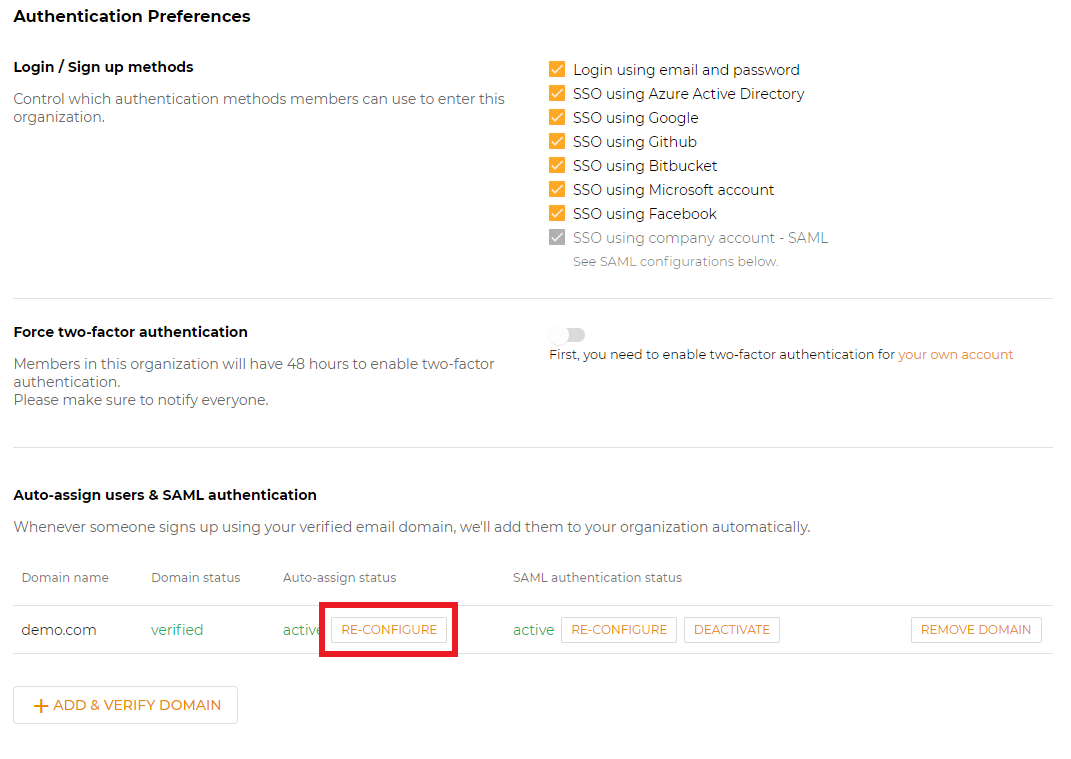
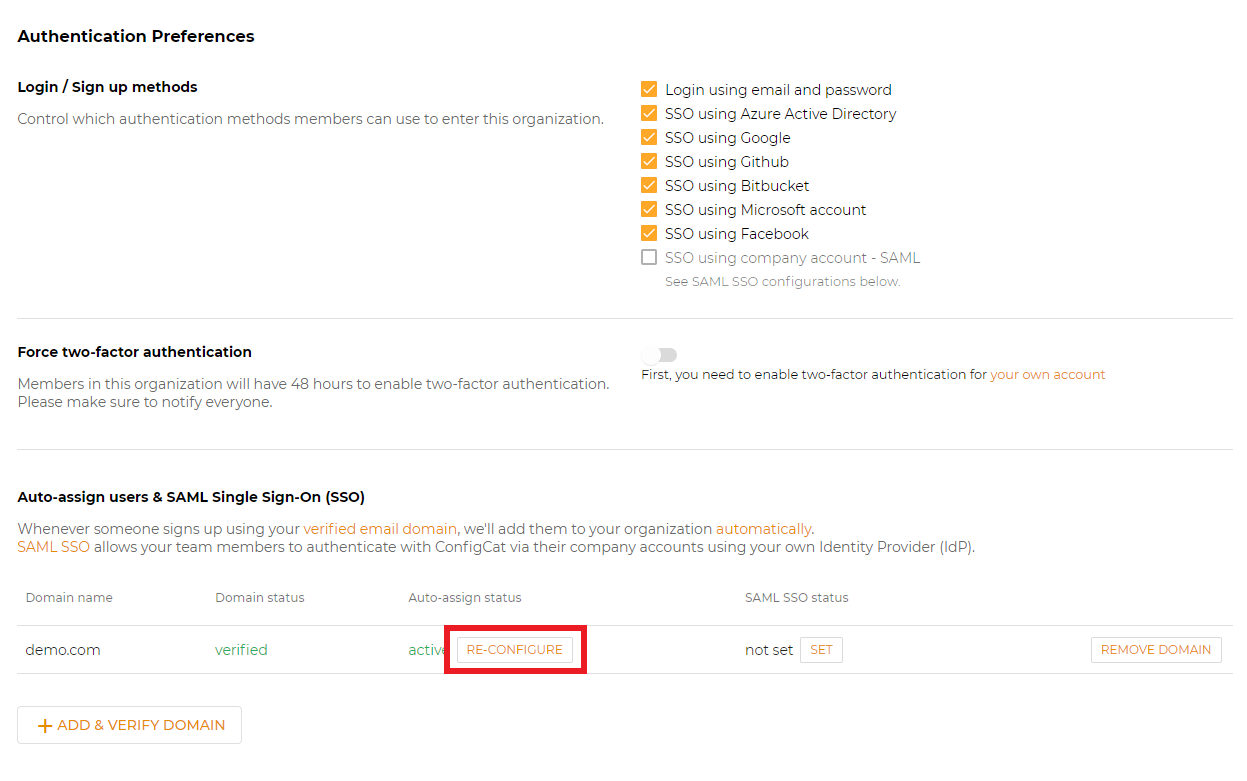
Final touches

diff --git a/website/docs/advanced/team-management/saml/overview.md b/website/docs/advanced/team-management/saml/overview.md
@@ -5,7 +5,7 @@ title: Overview
 
 This section describes how you can enable SAML Single Sign-On (SSO) for your ConfigCat environment.
 
-SAML authentication allows your team members to authenticate with ConfigCat via their company accounts using your own Identity Provider (IdP).
+SAML SSO allows your team members to authenticate with ConfigCat via their company accounts using your own Identity Provider (IdP).
 
 ### Prerequisites
 - [Verified domain](../domain-verification)  
@@ -26,11 +26,13 @@ We tested and validated the following SAML Identity Providers:
 Other Identity Providers might also work with ConfigCat, if they support the SAML 2.0 protocol.
 :::
 
-### SAML Attributes
-- Supported SAML flows:
-    - IdP initiated SSO
-    - SP initiated SSO
 
-- Required NameID format: `http://schemas.xmlsoap.org/ws/2005/05/identity/claims/emailaddress`
-- Supported signature algorithm: `RSA-SHA256`
-#### 
+### Supported SAML flows
+  - IdP initiated SSO
+  - SP initiated SSO
+
+### SAML Requirements
+These are the Identity Provider configuration requirements for ConfigCat:
+
+- **Name ID**: ConfigCat only supports the email address in the `NameID` field.
+- **Signature algorithm**: ConfigCat only supports the `RSA-SHA256` signature algorithm.

diff --git a/website/docs/advanced/team-management/saml/identity-providers/adfs.md b/website/docs/advanced/team-management/saml/identity-providers/adfs.md
@@ -16,7 +16,7 @@ Each SSO Identity Provider requires specific information to configure a SAML int
 
   <img class="saml-tutorial-img" src="/static/assets/saml/dashboard/authentication.png" />
 
-- Select the domain you want to configure with SAML, and click `Set` under the `SAML authentication status`.
+- Select the domain you want to configure with SAML, and click `Set` under the `SAML SSO status`.
 
   <img class="saml-tutorial-img" src="/static/assets/saml/dashboard/domains.png" />
 

diff --git a/website/docs/advanced/team-management/saml/identity-providers/auth0.md b/website/docs/advanced/team-management/saml/identity-providers/auth0.md
@@ -32,7 +32,7 @@ The next step will guide you on how to collect the information required for the 
 
   <img class="saml-tutorial-img" src="/static/assets/saml/dashboard/authentication.png" />
 
-- Select the domain you want to configure with SAML, and click `Set` under the `SAML authentication status`.
+- Select the domain you want to configure with SAML, and click `Set` under the `SAML SSO status`.
 
   <img class="saml-tutorial-img" src="/static/assets/saml/dashboard/domains.png" />
 

diff --git a/website/docs/advanced/team-management/saml/identity-providers/azure-ad.md b/website/docs/advanced/team-management/saml/identity-providers/azure-ad.md
@@ -40,7 +40,7 @@ The next step will guide you on how to collect the information required for Conf
 
   <img class="saml-tutorial-img" src="/static/assets/saml/dashboard/authentication.png" />
 
-- Select the domain you want to configure with SAML, and click `Set` under the `SAML authentication status`.
+- Select the domain you want to configure with SAML, and click `Set` under the `SAML SSO status`.
 
   <img class="saml-tutorial-img" src="/static/assets/saml/dashboard/domains.png" />
 

diff --git a/website/docs/advanced/team-management/saml/identity-providers/google.md b/website/docs/advanced/team-management/saml/identity-providers/google.md
@@ -37,7 +37,7 @@ The next step will guide you on how to configure ConfigCat with appearing inform
 
   <img class="saml-tutorial-img" src="/static/assets/saml/dashboard/authentication.png" />
 
-- Select the domain you want to configure with SAML, and click `Set` under the `SAML authentication status`.
+- Select the domain you want to configure with SAML, and click `Set` under the `SAML SSO status`.
 
   <img class="saml-tutorial-img" src="/static/assets/saml/dashboard/domains.png" />
 

diff --git a/website/docs/advanced/team-management/saml/identity-providers/okta.md b/website/docs/advanced/team-management/saml/identity-providers/okta.md
@@ -36,7 +36,7 @@ The next step will guide you on how to collect the information required for the 
 
   <img class="saml-tutorial-img" src="/static/assets/saml/dashboard/authentication.png" />
 
-- Select the domain you want to configure with SAML, and click `Set` under the `SAML authentication status`.
+- Select the domain you want to configure with SAML, and click `Set` under the `SAML SSO status`.
 
   <img class="saml-tutorial-img" src="/static/assets/saml/dashboard/domains.png" />
 

diff --git a/website/docs/advanced/team-management/saml/identity-providers/onelogin.md b/website/docs/advanced/team-management/saml/identity-providers/onelogin.md
@@ -36,7 +36,7 @@ The next step will guide you on how to collect the information required for the 
 
   <img class="saml-tutorial-img" src="/static/assets/saml/dashboard/authentication.png" />
 
-- Select the domain you want to configure with SAML, and click `Set` under the `SAML authentication status`.
+- Select the domain you want to configure with SAML, and click `Set` under the `SAML SSO status`.
 
   <img class="saml-tutorial-img" src="/static/assets/saml/dashboard/domains.png" />
 
